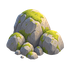
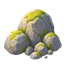
Krok 6: obiekty mapy pod nową teksturę terenu
Kępki trawy, kwiatki i kamyki stały na mapie jako osobne sprite'y, bo dawna
tekstura trawy była gładką plamą koloru i sama nie mówiła nic. Tekstura
z modelu ma to wszystko wmalowane, więc te sprite'y dokładały drugą warstwę
kwiatków, w dodatku rysowaną inną techniką — czyli dokładnie ten efekt
sklejenia z dwóch gier, który usuwamy. Zostaje krzak: ma własną bryłę i cień,
czego płaska tekstura dać nie może.

Skala-2 i kopiec-2 idą teraz z wsadu jako odbicia, więc komplet skał jest
z jednego źródła. Palma była wczytywana i nieużywana.

Claude-Session: https://claude.ai/code/session_01MdkFzTpsFVUTVVBqrPCgQT

diff --git a/src/scenes/AdventureScene.ts b/src/scenes/AdventureScene.ts
@@ -135,17 +135,12 @@ export class AdventureScene extends Phaser.Scene {
       'drzewo',
       'sosna-b',
       'drzewo-b',
-      'palma',
       'skala',
       'skala-2',
       'kopiec',
       'kopiec-2',
       'krzak',
       'krzak-2',
-      'kepka',
-      'kwiaty',
-      'pniak',
-      'kamyki',
       'pokeball',
       'jagody',
       'kamien-ewolucji',
@@ -541,25 +536,21 @@ export class AdventureScene extends Phaser.Scene {
         if (this.stan.teren[y][x] !== 'trawa') continue;
         if (obiektNa(this.stan, x, y)) continue;
         const h = (x * 17 + y * 31 + x * y * 5) % 9;
-        if (h > 4) continue;
+        // Rzadziej niż wcześniej i tylko krzaki.
+        //
+        // Kępki trawy, kwiatki i kamyki stały tu jako osobne sprite'y, bo
+        // dawna tekstura trawy była gładką plamą koloru i sama z siebie nie
+        // mówiła nic. Tekstura z modelu ma to wszystko wmalowane, więc te
+        // sprite'y dokładały drugą warstwę kwiatków — w dodatku rysowanych
+        // inną techniką. Zostaje krzak: ma własną bryłę i cień, czyli daje
+        // to, czego płaska tekstura dać nie może.
+        if (h > 2) continue;
         const { x: ex, y: ey } = this.naEkran(x, y);
-        // Pięć rodzajów drobiazgów zamiast dwóch. Krzak i pniak są wyraźnie
-        // większe od kępki, więc pusta trawa dostaje nie tylko więcej, ale też
-        // różnej wielkości rzeczy — a to dopiero robi wrażenie zarośniętej.
-        const [klucz, wysokosc] = (
-          [
-            ['m-kepka', 0.22],
-            ['m-kwiaty', 0.22],
-            ['m-kamyki', 0.16],
-            ['m-pniak', 0.26],
-            ['m-krzak', 0.46],
-          ] as Array<[string, number]>
-        )[h];
         this.element(
-          klucz,
-          ex + ((h - 2) * KAFEL) / 6,
-          ey + KAFEL * (0.2 + (h % 3) * 0.07),
-          wysokosc,
+          ['m-krzak', 'm-krzak-2', 'm-krzak'][h],
+          ex + ((h - 1) * KAFEL) / 5,
+          ey + KAFEL * (0.2 + h * 0.07),
+          0.42 + h * 0.05,
           y - 0.5,
           x + y
         );

diff --git a/tools/wsad_wczytaj.py b/tools/wsad_wczytaj.py
@@ -135,7 +135,10 @@ OBIEKTY = {
     'm-drzewo': [('drzewo', 144), ('drzewo-b', 144)],
     'm-sosna': [('sosna', 144), ('sosna-b', 144), ('sosna-mala', 96)],
     'm-krzak': [('krzak', 84), ('krzak-2', 84)],
-    'm-skala': [('skala', 67), ('skala-2', 67), ('kopiec', 37)],
+    # `skala-2` i `kopiec-2` to odbicia, nie osobne rysunki: rytm skalnego
+    # grzbietu łamie odbicie i skala, a nie liczba plików. Cztery sylwetki
+    # z jednego źródła wystarczą, żeby nie było widać powtórzenia.
+    'm-skala': [('skala', 67), ('skala-2', 67, True), ('kopiec', 37), ('kopiec-2', 37, True)],
     'm-kopalnia': [('kopalnia', 57)],
     'm-sad': [('sad', 57)],
     'm-skrzynia': [('skrzynia', 38)],
@@ -152,9 +155,12 @@ TERENY = ['teren-trawa', 'teren-sciezka', 'teren-piasek', 'teren-woda', 'teren-l
 def mapa():
     for zrodlo, cele in OBIEKTY.items():
         im = wczytaj(zrodlo)
-        for nazwa, wys in cele:
-            dopasuj(im, wys).save(MAPA / f'{nazwa}.png')
-        print(f'  {zrodlo} → {", ".join(n for n, _ in cele)}')
+        for nazwa, wys, *odbij in cele:
+            wynik = dopasuj(im, wys)
+            if odbij and odbij[0]:
+                wynik = wynik.transpose(Image.FLIP_LEFT_RIGHT)
+            wynik.save(MAPA / f'{nazwa}.png')
+        print(f'  {zrodlo} → {", ".join(c[0] for c in cele)}')
 
     TEREN.mkdir(parents=True, exist_ok=True)
     for nazwa in TERENY:

diff --git a/tools/PRZEBIEG.md b/tools/PRZEBIEG.md
@@ -43,8 +43,14 @@ się widocznym wzorem.
       poszarpaną szumem maską (`teren_malowanie.py`). Ścieżka dostała własną
       teksturę zamiast dwóch kresek wektorowych. Sondy `probe-mapa`
       i `probe-przygoda` na zielono.
-- [ ] **6. Obiekty mapy.** Podmiana drzew, skał, kopalni, sadu, skrzyni,
-      zamku i czterech surowców; sondy `probe-klik` i `probe-przygoda`.
+- [x] **6. Obiekty mapy.** Wszystkie cztery sylwetki skalne idą teraz z wsadu
+      (`skala-2` i `kopiec-2` jako odbicia). Kępki trawy, kwiatki, kamyki
+      i pniak — usunięte: tekstura trawy ma to wmalowane, a te sprite'y
+      dokładały drugą warstwę, w dodatku starą techniką. Zostaje krzak, bo ma
+      bryłę i cień. `palma` była martwa. Sondy `probe-klik` i `probe-przygoda`
+      na zielono.
+      **Zostaje do wygenerowania:** `bohater.png` — jedyny sprite na mapie
+      wciąż w starej technice, a stoi w samym środku uwagi gracza.
 - [ ] **7. Sprzątanie.** Usunięcie `rysuj_miasto.py` i `render3d.py`, jeśli nic
       z nich nie zostaje; wpis do STAN.md o pochodzeniu grafik.
       Po kroku 5 osierocone są też: `src/data/kafelki.ts`,
